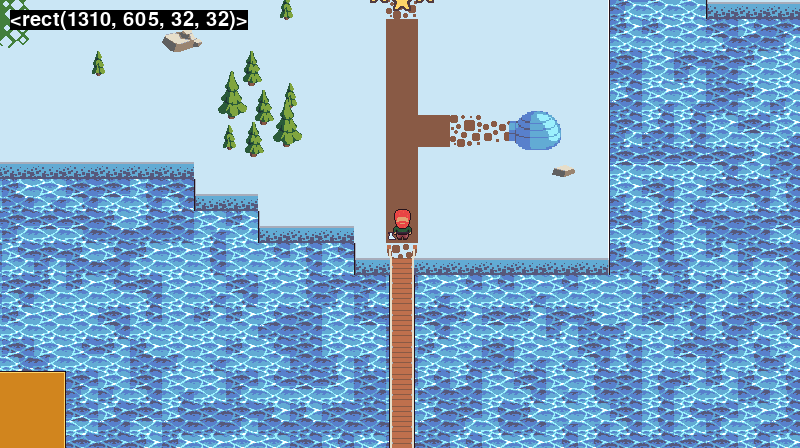
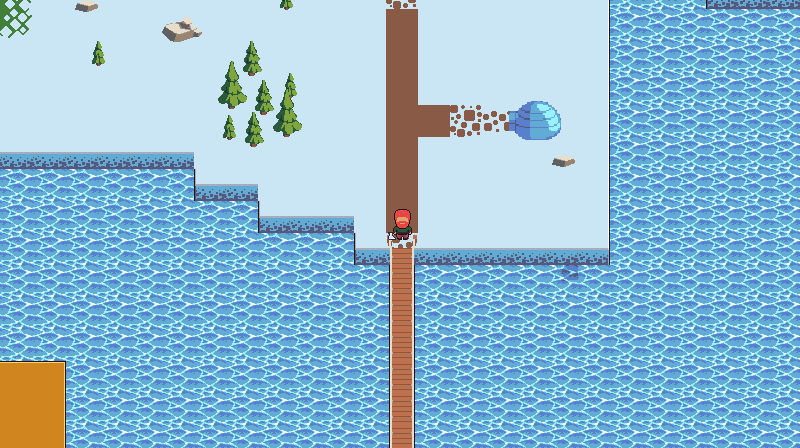
changing transition images

diff --git a/LevelSelector/code/levelSelector.py b/LevelSelector/code/levelSelector.py
@@ -62,7 +62,7 @@ class LevelSelector:
 		# update and draw the game
 		self.visible_sprites.custom_draw(self.player)
 		self.visible_sprites.update()
-		debug(self.player.rect)
+		# debug(self.player.rect)
 
 class YSortCameraGroup(pygame.sprite.Group):
 	def __init__(self): 
@@ -132,23 +132,23 @@ class YSortCameraGroup(pygame.sprite.Group):
 		map_offset = self.map_rect.topleft - self.offset
 		self.screen.blit(self.map_image, map_offset)
 
-		stars_one_offset = self.level_one_stars_rect.topleft - self.offset
-		self.screen.blit(self.level_one_stars, stars_one_offset)
+		# stars_one_offset = self.level_one_stars_rect.topleft - self.offset
+		# self.screen.blit(self.level_one_stars, stars_one_offset)
 
-		stars_two_offset = self.level_two_stars_rect.topleft - self.offset
-		self.screen.blit(self.level_two_stars, stars_two_offset)
+		# stars_two_offset = self.level_two_stars_rect.topleft - self.offset
+		# self.screen.blit(self.level_two_stars, stars_two_offset)
 
-		stars_three_offset = self.level_three_stars_rect.topleft - self.offset
-		self.screen.blit(self.level_three_stars, stars_three_offset)
+		# stars_three_offset = self.level_three_stars_rect.topleft - self.offset
+		# self.screen.blit(self.level_three_stars, stars_three_offset)
 
-		stars_one_tut_offset = self.level_one_tut_stars_rect.topleft - self.offset
-		self.screen.blit(self.level_one_tut_stars, stars_one_tut_offset)
+		# stars_one_tut_offset = self.level_one_tut_stars_rect.topleft - self.offset
+		# self.screen.blit(self.level_one_tut_stars, stars_one_tut_offset)
 
-		stars_two_tut_offset = self.level_two_tut_stars_rect.topleft - self.offset
-		self.screen.blit(self.level_two_tut_stars, stars_two_tut_offset)
+		# stars_two_tut_offset = self.level_two_tut_stars_rect.topleft - self.offset
+		# self.screen.blit(self.level_two_tut_stars, stars_two_tut_offset)
 
-		stars_three_tut_offset = self.level_three_tut_stars_rect.topleft - self.offset
-		self.screen.blit(self.level_three_tut_stars, stars_three_tut_offset)
+		# stars_three_tut_offset = self.level_three_tut_stars_rect.topleft - self.offset
+		# self.screen.blit(self.level_three_tut_stars, stars_three_tut_offset)
 
 
 		#loop through each sprite and blit according to offset position 

diff --git a/main.py b/main.py
@@ -225,8 +225,8 @@ class Game:
 
 					elif settings.game_state == 0:
 						if event.key == pygame.K_k: 
-							# pygame.image.save(self.screen, "./LevelSelector/TransitionImages/levelThreeRespawn.png")
-							pass
+							# pygame.image.save(self.screen, "./LevelSelector/TransitionImages/levelOneRespawn.png")
+							pass							
 
 			self.screen.fill('black')
 
@@ -258,7 +258,7 @@ class Game:
 					self.levelOneTut.run()
 				else:
 					del self.levelSelector
-					self.levelSelector = LevelSelector((578, 382))
+					self.levelSelector = LevelSelector((898, 382))
 
 					self.curtainIn()
 
@@ -268,7 +268,7 @@ class Game:
 					self.levelOne.run()
 				else: 
 					del self.levelSelector
-					self.levelSelector = LevelSelector((578, 382))
+					self.levelSelector = LevelSelector((898, 382))
 
 					self.curtainIn()
 			
@@ -277,7 +277,7 @@ class Game:
 					self.levelTwoTut.run()
 				else: 
 					del self.levelSelector
-					self.levelSelector = LevelSelector((670, 895))
+					self.levelSelector = LevelSelector((990, 895))
 
 					self.curtainIn()
 
@@ -287,7 +287,7 @@ class Game:
 					self.levelTwo.run()
 				else: 
 					del self.levelSelector
-					self.levelSelector = LevelSelector((670, 895))
+					self.levelSelector = LevelSelector((990, 895))
 
 					self.curtainIn()
 
@@ -296,7 +296,7 @@ class Game:
 					self.levelThreeTut.run()
 				else: 
 					del self.levelSelector
-					self.levelSelector = LevelSelector((1310, 605))
+					self.levelSelector = LevelSelector((1630, 605))
 
 					self.curtainIn()
 					
@@ -306,7 +306,7 @@ class Game:
 					self.levelThree.run()
 				else:
 					del self.levelSelector
-					self.levelSelector = LevelSelector((1310, 605))
+					self.levelSelector = LevelSelector((1630, 605))
 
 					self.curtainIn()
 

diff --git a/LevelSelector/code/player.py b/LevelSelector/code/player.py
@@ -175,7 +175,6 @@ class Player(pygame.sprite.Sprite):
 
 
 	def update(self): 
-		self.screen.blit(self.hitbox)
 		self.input()
 		self.move(self.speed)
 		self.check_animations()
